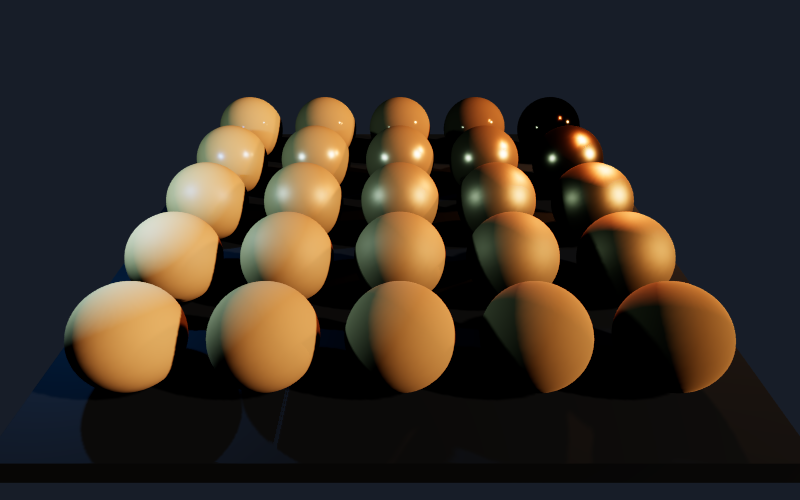
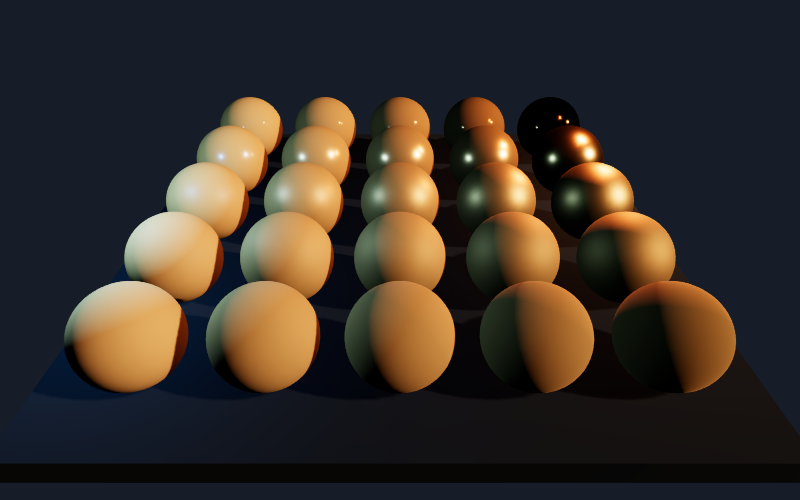
fix(examples): no shadow-casting light moves every frame unless that motion is the example (#327)

diff --git a/site/examples/from-clay-to-chrome.html b/site/examples/from-clay-to-chrome.html
@@ -45,7 +45,8 @@
       // reflects, so its highlights are the lamps themselves.
       world.scene.add(light.directional({ intensity: 3, color: '#fff1dd', position: [9, 5, 3], castShadow: true }));
       const lamps = ['#ffb070', '#70b8ff'].map((colour) => {
-        const lamp = light.point({ color: colour, intensity: 40, distance: 16, radius: 0.1, castShadow: true });
+        // They cast no shadow: a moving shadow caster redraws its whole shadow map every frame.
+        const lamp = light.point({ color: colour, intensity: 40, distance: 16, radius: 0.1 });
         world.scene.add(lamp);
         return lamp;
       });

diff --git a/site/examples/a-ring-of-lamps.html b/site/examples/a-ring-of-lamps.html
@@ -58,6 +58,7 @@
         lamps.forEach(({ glow, bulb }, index) => {
           glow.visible = bulb.visible = index < values.lamps;
           glow.intensity = values.power;
+          // Off by default: each moving lamp that casts a shadow redraws its shadow map every frame.
           glow.castShadow = values.shadows;
         });
       });
